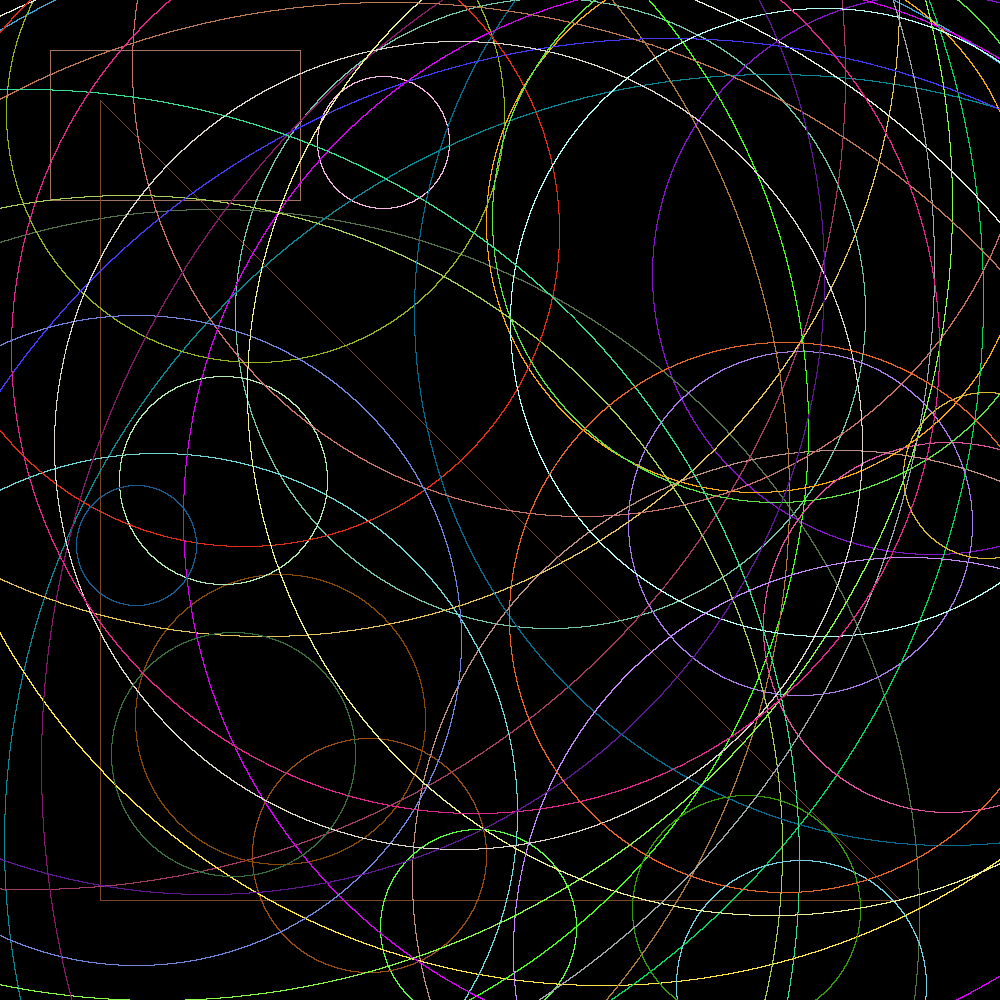
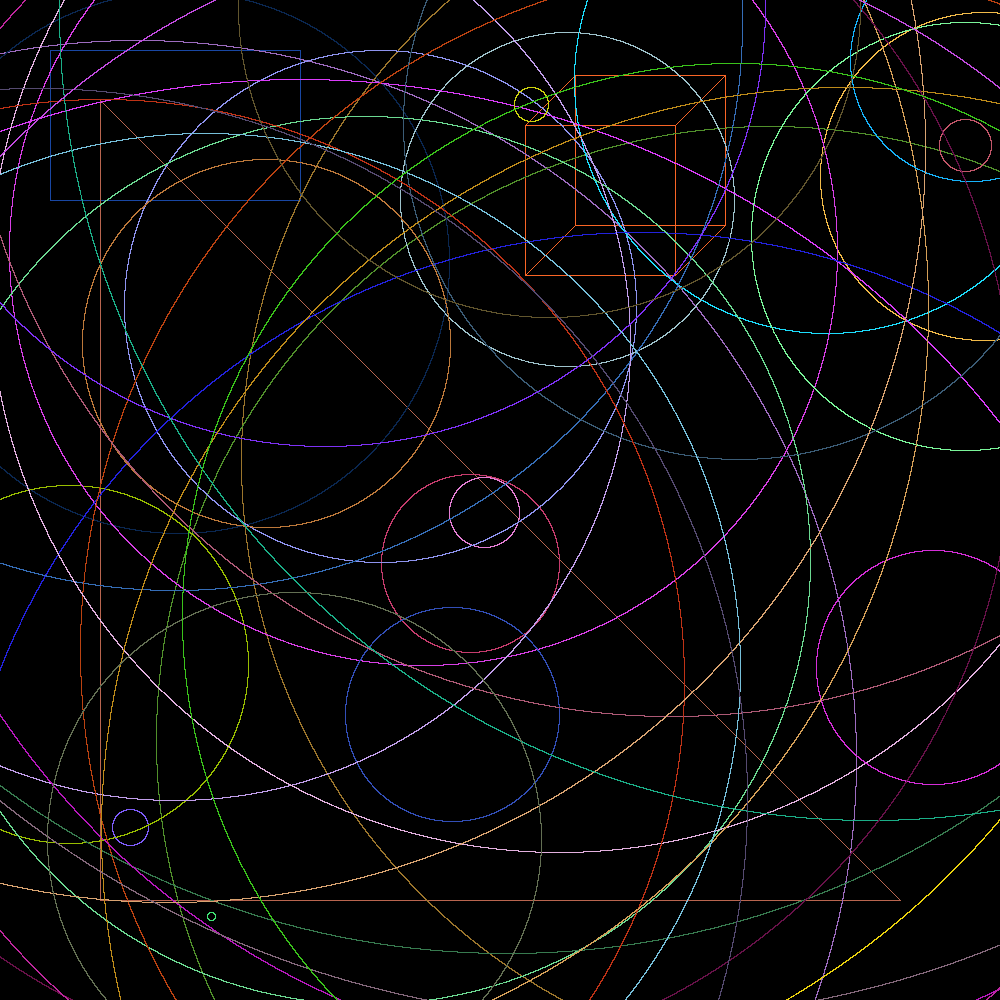
bonus cube added

diff --git a/geometrical_shapes/Cube.java b/geometrical_shapes/Cube.java
@@ -1,0 +1,56 @@
+package geometrical_shapes;
+
+import java.awt.Color;
+
+public class Cube extends Colored implements Drawable {
+
+    public Point center;
+    public int size;
+    public int depth;  
+
+    public Cube(Point center, int size, int depth) {
+        this.center = center;
+        this.size = size;
+        this.depth = depth;
+    }
+
+    @Override
+    public void draw(Displayable displayable) {
+        int half = size / 2;
+
+       
+        Point A = new Point(center.x - half, center.y - half);
+        Point B = new Point(center.x + half, center.y - half);
+        Point C = new Point(center.x + half, center.y + half);
+        Point D = new Point(center.x - half, center.y + half);
+
+         
+        Point A2 = new Point(A.x + depth, A.y - depth);
+        Point B2 = new Point(B.x + depth, B.y - depth);
+        Point C2 = new Point(C.x + depth, C.y - depth);
+        Point D2 = new Point(D.x + depth, D.y - depth);
+
+         
+        new Line(A, B, getColor()).draw(displayable);
+        new Line(B, C, getColor()).draw(displayable);
+        new Line(C, D, getColor()).draw(displayable);
+        new Line(D, A, getColor()).draw(displayable);
+
+        
+        new Line(A2, B2, getColor()).draw(displayable);
+        new Line(B2, C2, getColor()).draw(displayable);
+        new Line(C2, D2, getColor()).draw(displayable);
+        new Line(D2, A2, getColor()).draw(displayable);
+
+ 
+        new Line(A, A2, getColor()).draw(displayable);
+        new Line(B, B2, getColor()).draw(displayable);
+        new Line(C, C2, getColor()).draw(displayable);
+        new Line(D, D2, getColor()).draw(displayable);
+    }
+
+    @Override
+    public Color getColor() {
+        return this.color;
+    }
+}

diff --git a/Main.java b/Main.java
@@ -3,6 +3,7 @@ import geometrical_shapes.Image;
 import geometrical_shapes.Point;
 import geometrical_shapes.Rectangle;
 import geometrical_shapes.Triangle;
+import geometrical_shapes.Cube;
 
 public class Main {
     public static void main(String[] args) {
@@ -12,6 +13,9 @@ public class Main {
         Triangle triangle = new Triangle(new Point(100, 100), new Point(900, 900),
         new Point(100, 900));
         triangle.draw(image);
+
+        Cube cube = new Cube(new Point(600, 200), 150, 50);
+        cube.draw(image);
 
         for (int i = 0; i < 50; i++) {
             Circle circle = Circle.random(image.getWidth(), image.getHeight());

diff --git a/geometrical_shapes/Line.java b/geometrical_shapes/Line.java
@@ -16,6 +16,8 @@ public class Line extends Colored implements Drawable {
         this.color = color;
     }
 
+
+
     public void draw(Displayable displayable) {
         float distX = b.x - a.x;
         float distY = b.y - a.y;
